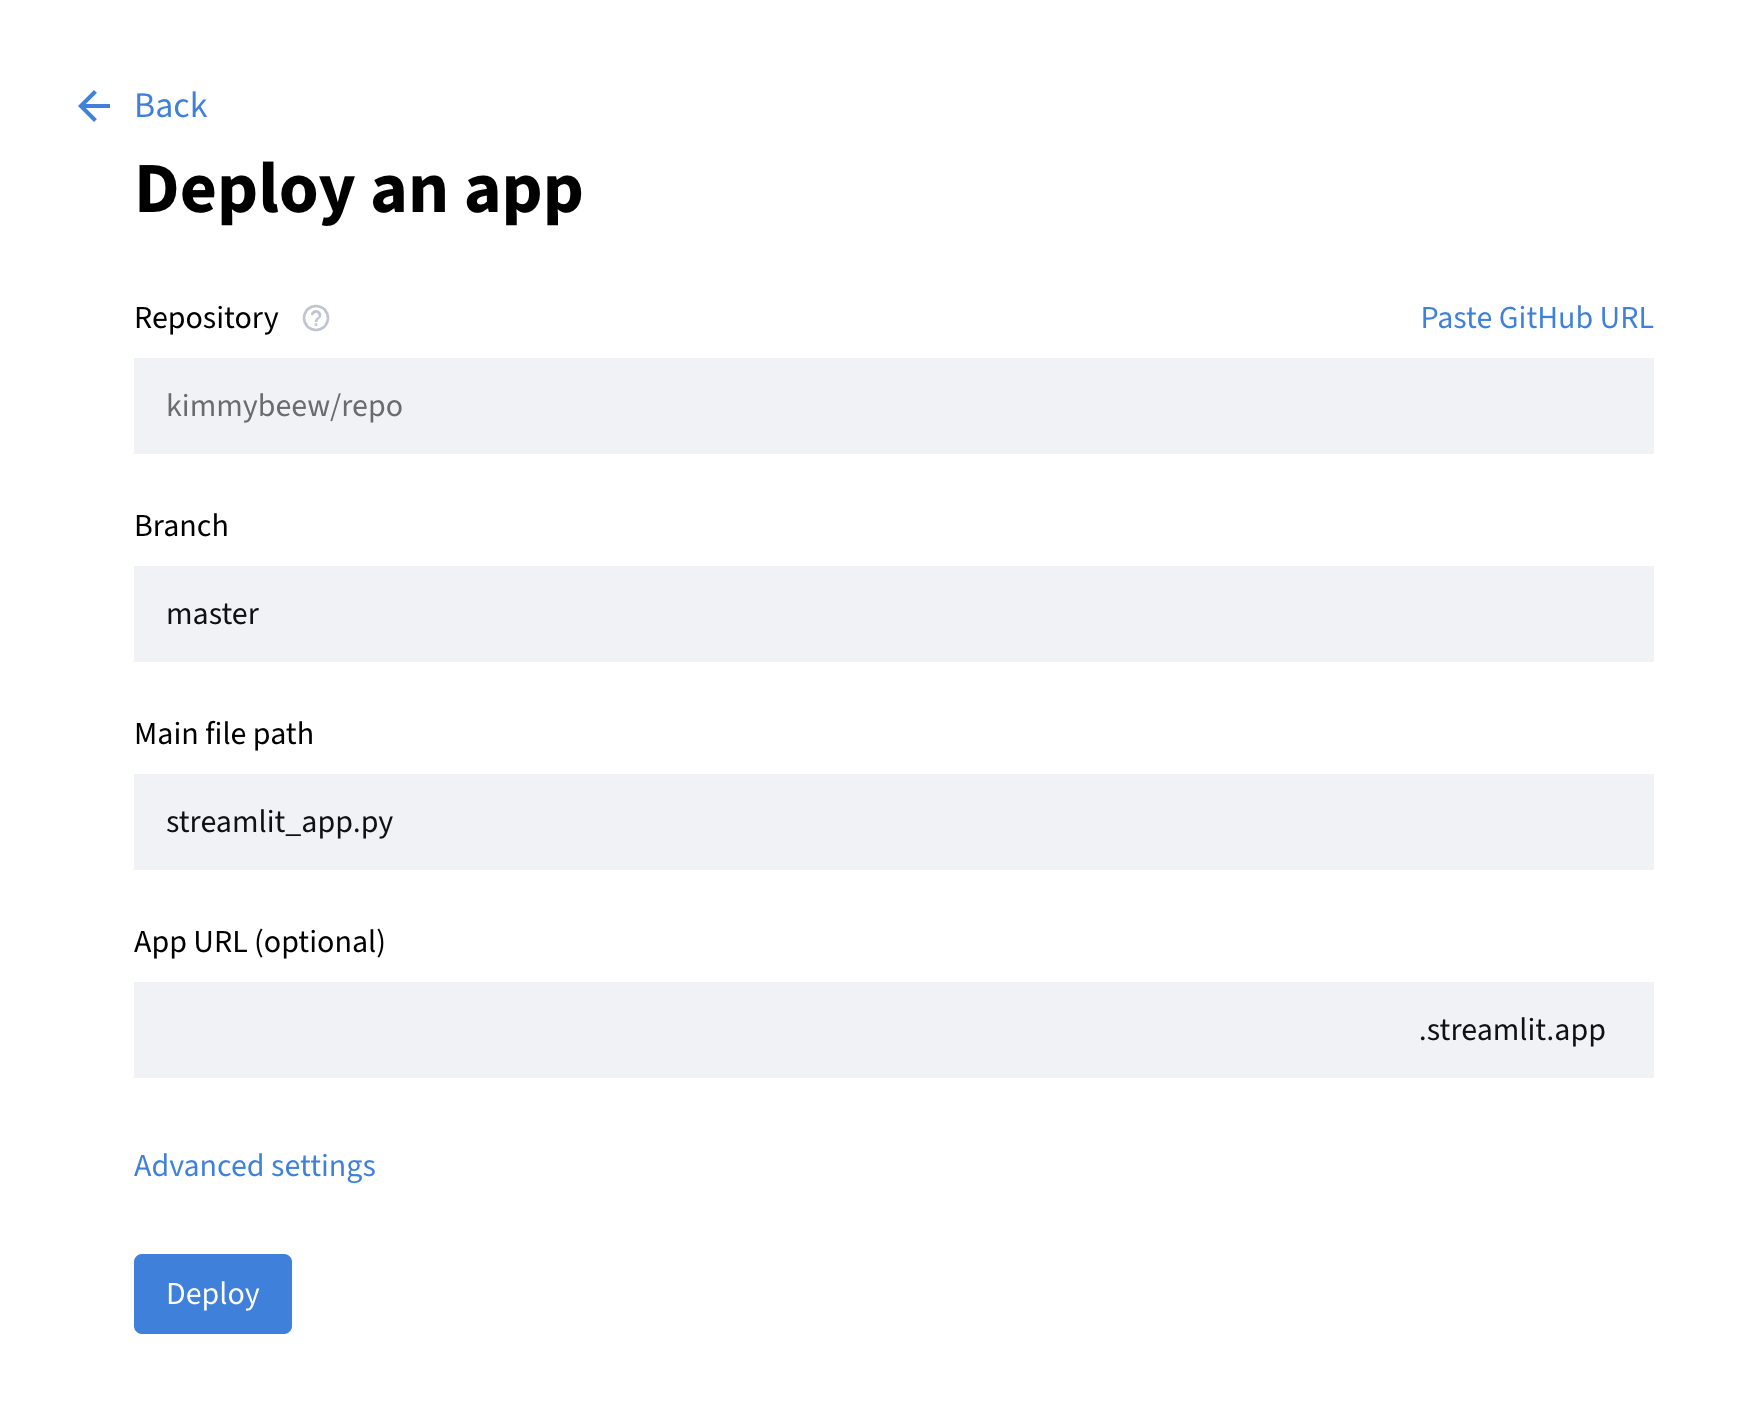
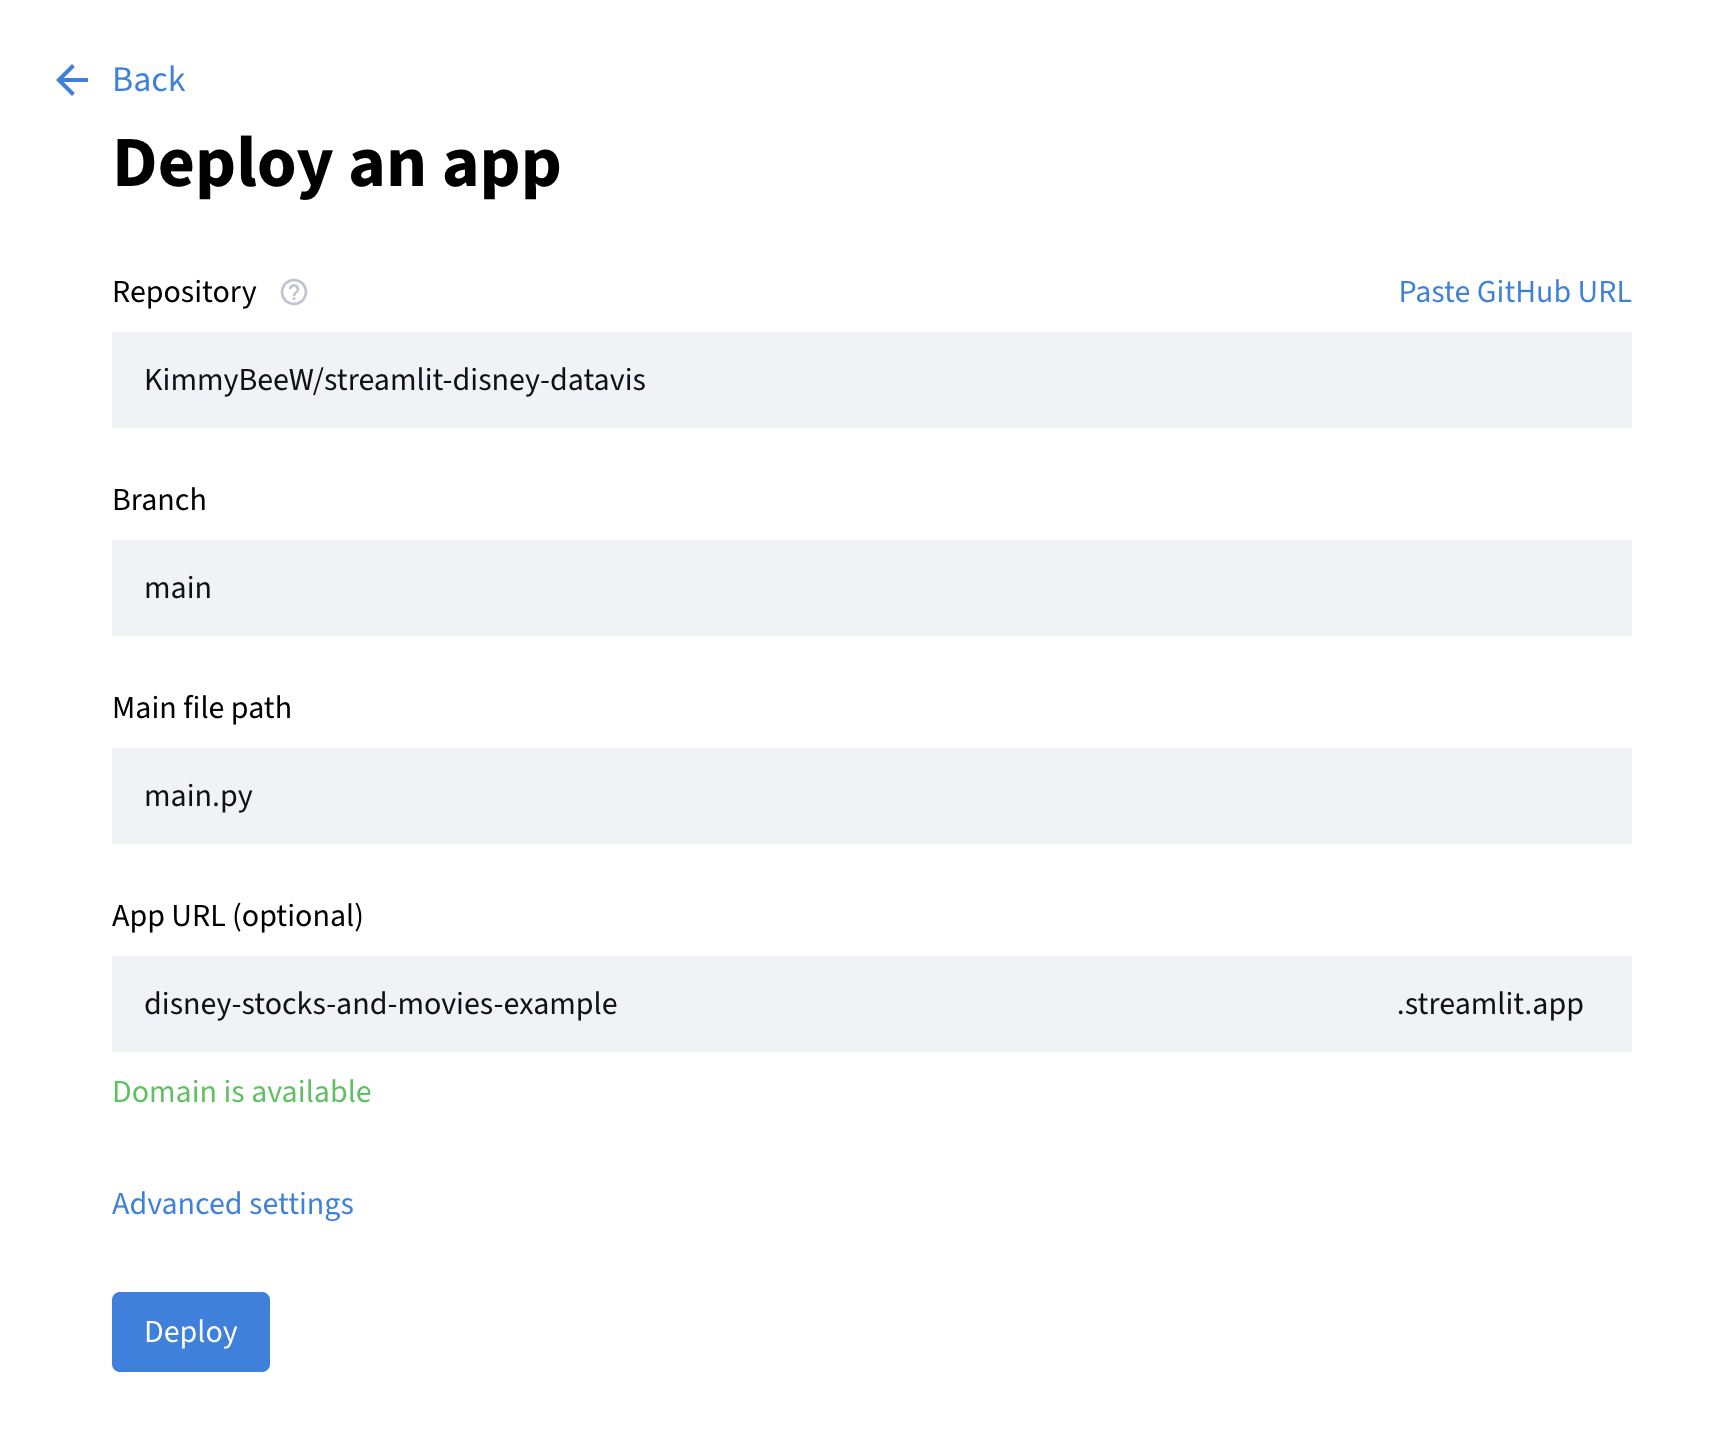
building the app instructions

diff --git a/_posts/2024-12-04-streamlit-disney-data-vis.md b/_posts/2024-12-04-streamlit-disney-data-vis.md
@@ -24,5 +24,53 @@ from plotly.subplots import make_subplots
 ```
 Any and all libraries that you need for the app need to be included on new lines in your requirements.txt file (like [this](https://github.com/KimmyBeeW/streamlit-disney-datavis/blob/main/requirements.txt)). Once all that is done, you can deploy your app and see what your code affects in real time.
 
-Go to [share.streamlit.io](https://share.streamlit.io/) and click "Create app" in the top right corner. If you're doing it through GitHub like me you'll select the "Deploy a public app from GitHub". Now select the repo that your code is in, select the main or master branch, select the title of your main.py file, and create a custom url for your app. The url I chose for my app is [disney-stocks-and-movies.streamlit.app/](https://disney-stocks-and-movies.streamlit.app/).
+Go to [share.streamlit.io](https://share.streamlit.io/) and click "Create app" in the top right corner. If you're doing it through GitHub like me you'll select the "Deploy a public app from GitHub". Now select the repo that your code is in, select the main or master branch, select the title of your main.py file, and create a custom url for your app. The url I chose for my app is [disney-stocks-and-movies.streamlit.app](https://disney-stocks-and-movies.streamlit.app/). Select deploy and you'll be able to visit your app at the link you just created.
 <img src="{{site.url}}/{{site.baseurl}}/assets/img/streamlit-createapp.png" alt="" class="center"/>
+
+Before you do any data visualization you'll need some data to visualize. Since I wanted to find out more about my Disney data, I read that in. In your main.py file under the import statements you can read in as many data sets as you want by using code that looks like this:
+```
+@st.cache_data  # the decorator so the app can read the data
+def load_stock_data():  # function for data source
+    url = 'https://github.com/KimmyBeeW/Disney-Web-Scraping/raw/main/datasets/all_disney_stocks.csv'
+    stocks = pd.read_csv(url, index_col = 0)  # read it into a DataFrame
+    return stocks  # return DataFrame
+
+stocks = load_stock_data()  # call the function and assign to variable
+```
+
+And don't forget to give your new app a title!
+```
+st.title("Disney Stocks and Disney Brands Box Office Numbers")
+```
+
+
+### Play with the Data
+It's now time to add your interactive elements and make some discoveries about your data! You can use tools like a sidebar to really optimize your data visualization.
+```
+with st.sidebar:  # interactive side bar
+    brands = st.radio('Brand name', ['Marvel', 'Lucasfilm', 'Pixar', 'Walt Disney Animation', 'Disney Channel', 'Disneytoon Studios', 'Disneynature', 'Blue Sky Studios'])
+
+```
+
+Or maybe you'd like to use different tabs to visualize your data. I always love a good line graph for time data:
+```
+tab1, tab2, tab3, tab4 = st.tabs(["Disney Stocks", "2nd tab", "3rd tab", "4th tab"]) # switch out the names obviously
+with tab1:
+    # slider for range of the graph dates
+    startyear_input = st.slider('Start Year', min_value = 1962, max_value=2024, value=2021)
+    endyear_input = st.slider('End Year', min_value = 1962, max_value=2024, value=2024)
+    filt_stocks = stocks[(stocks['Date'] >= pd.Timestamp(startyear_input, 1, 1)) & 
+                         (stocks['Date'] <= pd.Timestamp(endyear_input, 12, 31))].copy()
+    # make it possible to see all four lines
+    mlt_stocks = filt_stocks.melt(id_vars='Date', value_vars=['Close', 'Open', 'High', 'Low'], 
+                                     var_name='Type', value_name='Price ($)')
+    # custom colors
+    val_colors = {'High': '#29b6f6', 'Low': '#a80930',
+                     'Close': '#efb71d', 'Open': '#2bb007'}
+    # plot the stocks
+    fig = px.line(mlt_stocks, x='Date', y='Price ($)', color='Type',
+                  title='Disney Stock Prices Over Time',
+                  labels={'Price': 'Stock Price', 'Type': 'Price Type'},
+                  color_discrete_map=val_colors)
+    st.plotly_chart(fig)
+```
